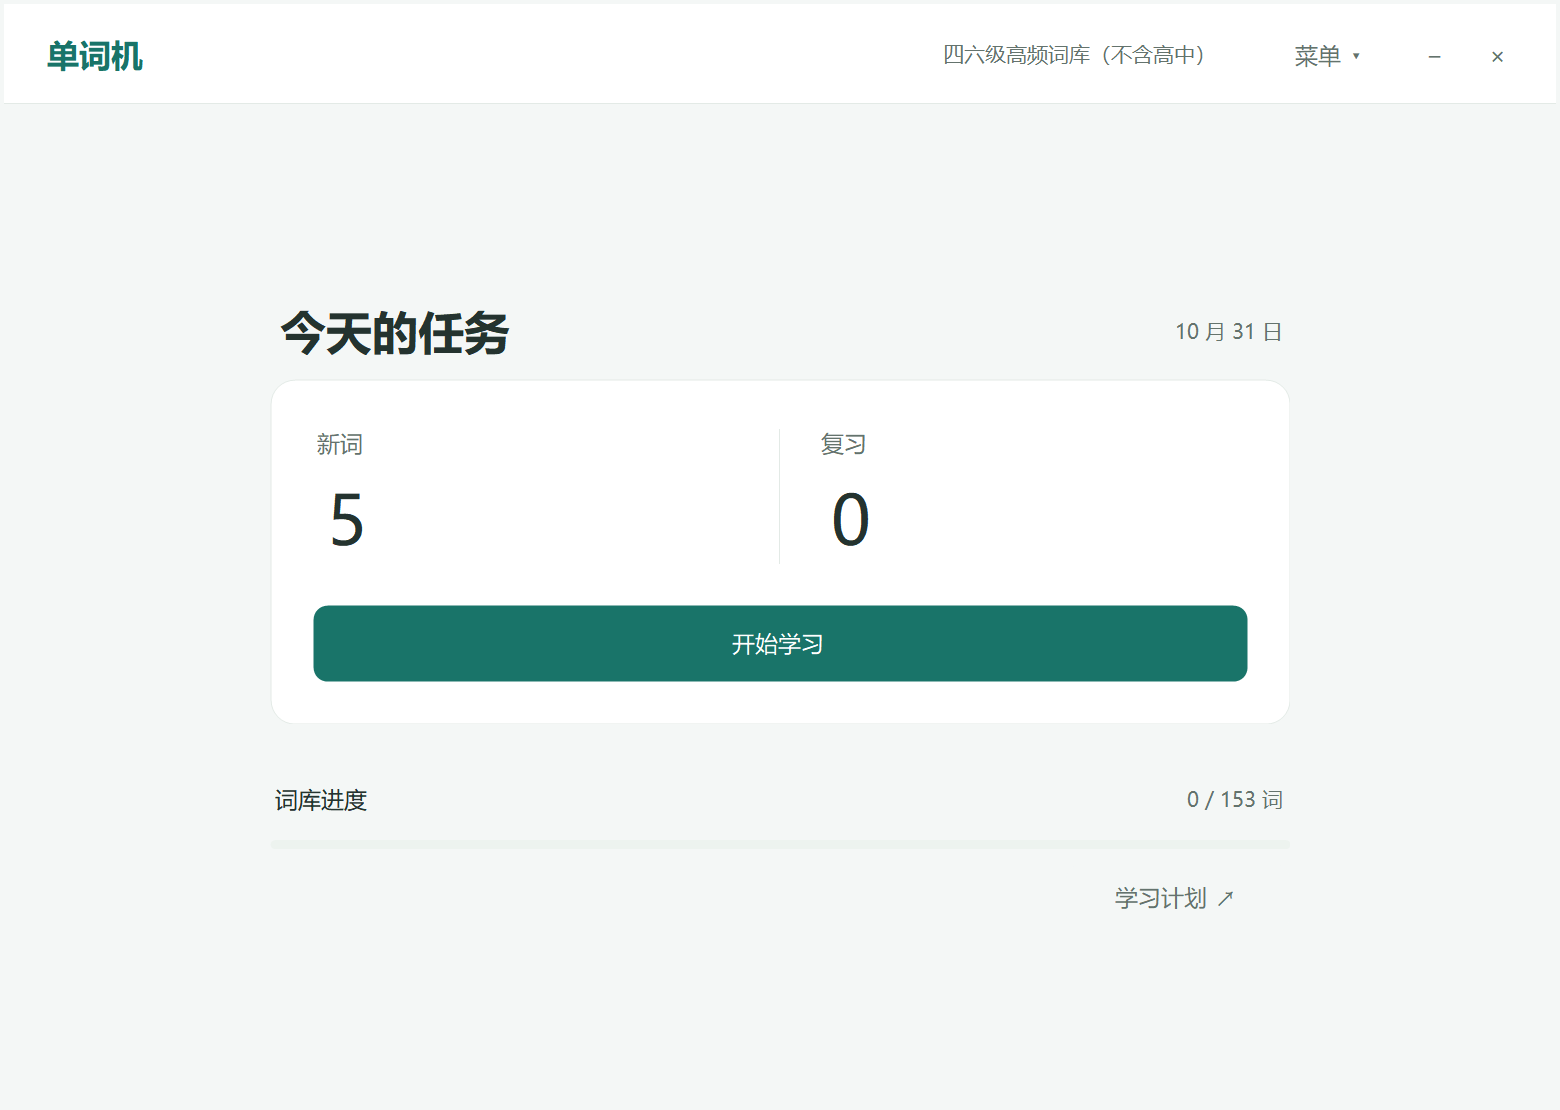
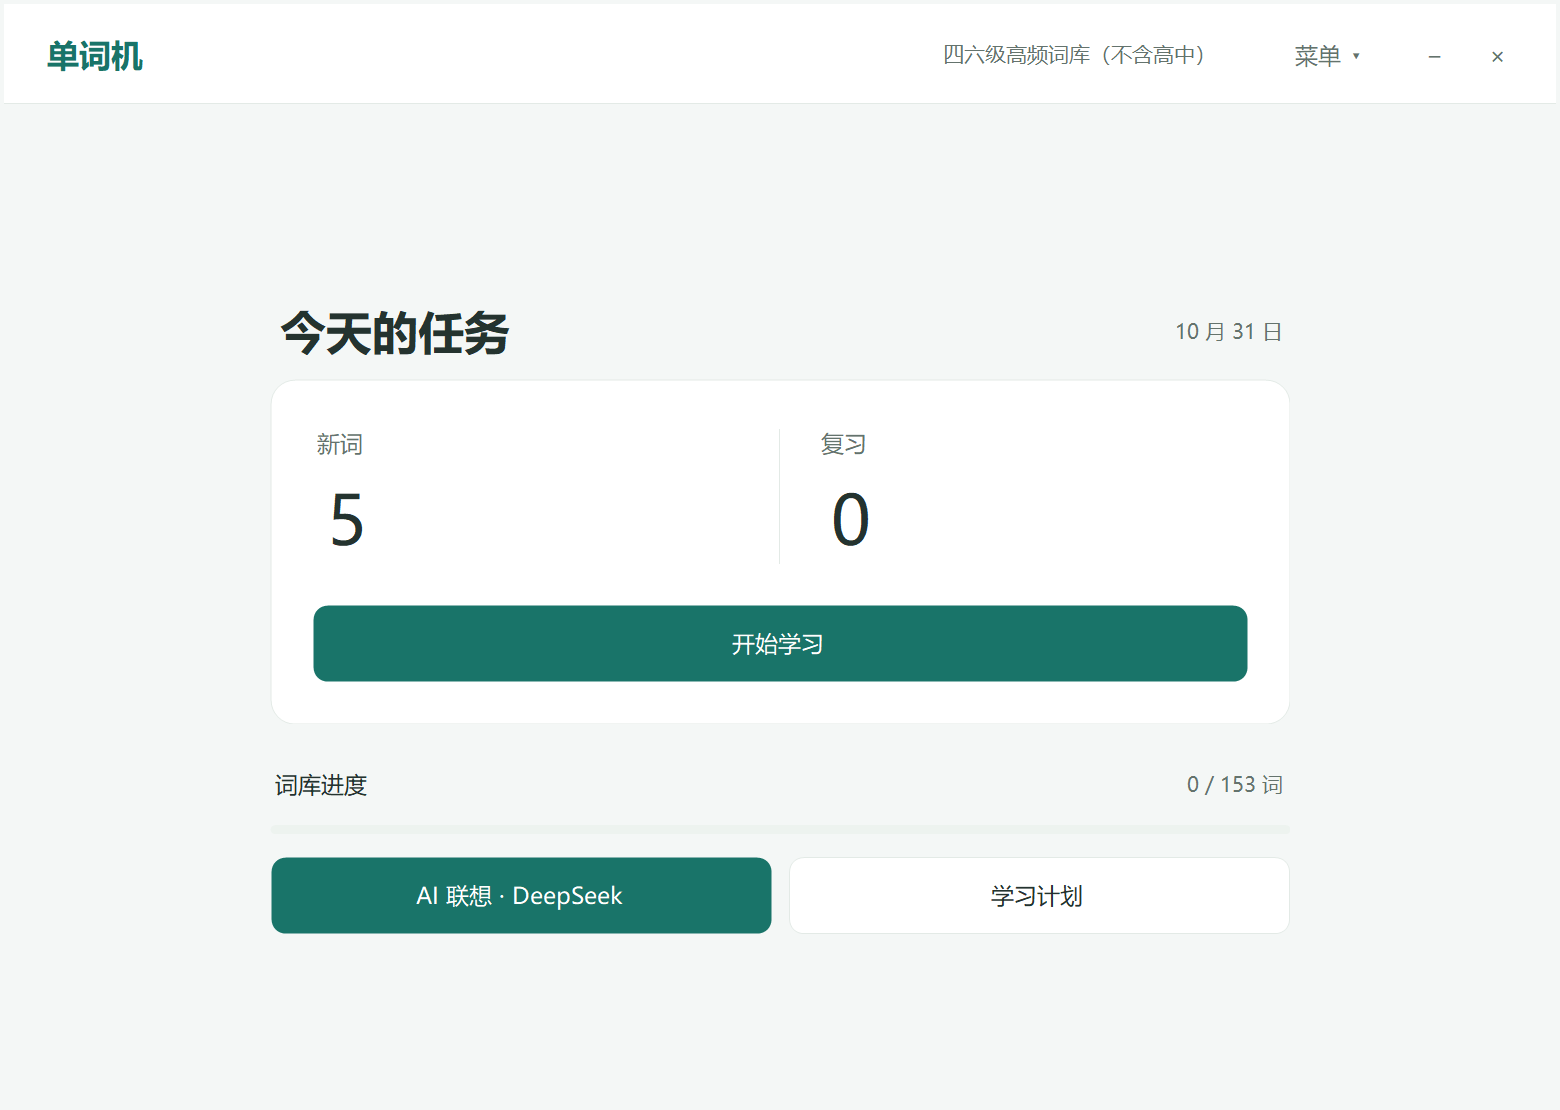
docs: prepare v0.1.1 release and update AI review guidance

diff --git a/docs/VERIFICATION.md b/docs/VERIFICATION.md
@@ -3,7 +3,7 @@
 日期：2026-10-31。
 
 - 正式版、测试版及两个测试项目组成的解决方案成功构建：0 警告、0 错误。
-- 社区版专项：正式模式和 TESTMODE 各通过 **446 项检查**；正式模式另在 96 DPI 下完整通过同样 446 项检查，常规运行在 144 DPI。
+- v0.1.1 社区版专项：正式模式和 TESTMODE 各通过 **489 项检查**；正式模式另在 96 DPI 下完整通过同样 489 项检查，常规运行在 144 DPI。
 - 导入覆盖：CSV/TSV、中文/英文表头、无表头、BOM、GB18030、UTF-16、多行引号、重复词冲突、JSON、XLSX、公式拒绝、空文件、50,000 词上限、导出往返及 CSV 公式文本保护。
 - 切换覆盖：按库保存任务、部分已答题任务恢复、同词同义进度复制、关闭复制、已用词库词条快照保留、切换失败不覆盖原状态、重启后恢复。
 - 可靠性覆盖：保存失败回滚、解除占用后重试、损坏存档不重置、存在备份时主文件缺失不创建空账号、损坏导入词库提示但不删除。
@@ -15,6 +15,9 @@
 - AI 联想覆盖：用户主动请求、只发送当前词/音标/释义、内置创意提示词、无最低字数、80 字 Unicode 边界、异常/超长/空结果拒绝、无自动重试、网络超时与取消、错误正文不泄漏凭据、模型列表连接测试。
 - AI 设置覆盖：假 Key 的真实 DPAPI 加密往返、无明文落盘、原子替换、文件占用保留旧配置、损坏配置不自动清除、手动移除、密码遮罩、取消不保存、失败可重试。未配置时仍可手写联想。
 - AI 界面覆盖：生成草稿不自动落盘、允许编辑与撤回、保存沿用原事务逻辑、关闭/取消后丢弃迟到响应、重复点击取消而不并发发送、已保存联想离线可读。100% / 150% 及最小窗口按钮尺寸、可达性和截图已核对。异步 UI 用真实 Windows 消息循环测试。
+- v0.1.1 首页入口：AI 联想按钮在常规及窄窗口可见，文字完整；打开、取消和保存设置不会修改学习进度，也不会自动调用 API；对话框结束后恢复跨日计时器。
+- v0.1.1 逐词复习：学习联想展示、手动修改、AI 生成与撤回、取消不保存、长联想滚动、最小窗口五个按钮可达且文字完整、空联想新增与清空、恢复词库原联想、文件占用失败保留旧状态及解除占用后重试、翻页与返回、重启离线读取、词库隔离、跨日拒绝旧编辑均通过。对比除个人联想外的完整存档，正式成绩、答案、复习日程和词库内容保持不变。
+- 复习编辑器额外验证真实 Windows 消息循环中的中文 `WM_CHAR` 连续输入：错题卡可见且至少刷新两次，未发生焦点丢失。本机 96 DPI 全量补测曾在既有冷却倒计时场景记录一次焦点中断；重新执行完整测试后 489 项全部通过，未稳定复现，也未放宽原检查。该测试不覆盖真实拼音输入法的候选词组合。
 - API 请求使用注入的模拟 HTTP 响应，不读取真实 Key、不产生真实模型调用；官方接口参数已核对。首次真实认证及生成需用户配置自己的 Key。
 - 错题卡边界覆盖：四边限制、负坐标与上下排列的多屏模拟、带任务栏偏移的工作区、窗口大于工作区时缩小；真实窗口的程序定位、原生 SetWindowPos 和 WM_MOVING 消息均保持完整可见。普通关闭及最小化命令不能绕过卡片；长错题列表内部滚动，底部按钮保持可达。
 - 隐藏抽查覆盖：从当前错词集合抽取、输入前不展示参考释义、空答不能通过、对照原答案自评、只有“基本说对”通过、其余自评/想不起来/取消均冷却；抽查时遮住原卡片释义，不收起卡片。阻止重复开题；换库、跨日或移除抽中词会作废旧题，正常退出可关闭进行中的题目和计时器。

diff --git a/README.md b/README.md
@@ -57,7 +57,7 @@ dotnet run --project src/Cet6WordMachine/Cet6WordMachine.csproj
 powershell -ExecutionPolicy Bypass -File scripts/build.ps1
 
 # 从当前 Git 提交打包版本化运行包和 SHA256 校验文件（需要 PowerShell 7）
-pwsh -File scripts/package-release.ps1 -Version 0.1.0
+pwsh -File scripts/package-release.ps1 -Version 0.1.1
 
 # 运行调度回归和词库专项测试（使用独立临时账号）
 powershell -ExecutionPolicy Bypass -File scripts/test.ps1
@@ -83,9 +83,11 @@ python scripts/verify_wordbanks.py
 
 ## AI 联想（可选）
 
-1. 打开 **菜单 → AI 设置**，填写自己的 DeepSeek API Key，选择模型。可先点“测试连接”，再保存。
-2. 在词卡的 **我的联想** 中点击 **AI 生成**。没有 Key 时会先打开设置；设置后需再次明确点击生成。
+1. 点击首页的 **AI 联想 · DeepSeek**，填写自己的 DeepSeek API Key，选择模型；也可从 **菜单 → AI 联想设置** 进入。可先点“测试连接”，再保存。
+2. 学习词卡和完成页的 **逐词复习** 都可以打开 **我的联想**，手动编辑或点击 **AI 生成**。没有 Key 时会先打开设置；设置后需再次明确点击生成。
 3. 可以手动修改、点击“换一种”重新生成，或“撤回生成”恢复上一次生成前的内容。只有点击 **保存** 才写入当前词库的个人联想。
+
+逐词复习直接展示已保存的联想，修改后立即更新；清空并保存会恢复词库自带的联想。修改联想不会改变检测成绩、历史答案或复习安排。
 
 内置提示词鼓励天马行空、幽默、荒诞但有内在逻辑的画面，连接单词与词义，突出一个记忆点；**80 字以内，不设最低字数**。虚构拆词只能作为记忆技巧，不能冒充真实词源。
 

diff --git a/docs/releases/v0.1.1.md b/docs/releases/v0.1.1.md
@@ -1,0 +1,19 @@
+本次更新让 AI 联想更容易找到，并补全逐词复习的联想编辑功能。
+
+## 更新内容
+
+- 首页新增醒目的 **AI 联想 · DeepSeek** 按钮，一键打开 API 设置；菜单中的入口改名为“AI 联想设置”。
+- **逐词复习**直接展示已保存的联想，新增“我的联想”按钮，与学习时使用同一个编辑窗口。
+- 支持手动改写、AI 生成、换一种和撤回生成；点击保存后立即更新。清空并保存会恢复词库自带联想。
+- 联想按词库保存，翻页、返回和重启后仍保留；修改不会影响检测成绩、历史答案或复习安排。
+- 增加首页入口、复习编辑、保存失败重试、跨日保护、长文本布局和输入焦点的回归检查。
+
+## 下载与更新
+
+下载 **WordMachineCommunity-win-x64.zip**，完整解压后打开 `WordMachineCommunity.exe`。这是 Windows x64 自包含运行包，无需另行安装 .NET。GitHub 自动生成的 Source code 是源码包。
+
+更新前退出旧程序并备份学习数据。默认数据目录为 `%LOCALAPPDATA%\WordMachineCommunity\`，可继续使用原有记录；便携模式请保留自己的 `data/` 和 `portable.marker`。如果移动了程序位置，请在菜单中更新开机自启动路径。
+
+AI 功能需要使用者自己的 DeepSeek API Key；只有主动生成时才请求联想接口。此版本通过模拟 API 和隔离账号测试，不包含共享 Key、个人学习记录或测试账号。
+
+运行包附带“用前读我.txt”、版本信息和“撤销开机自启动.cmd”，同时提供 `SHA256SUMS.txt` 校验文件。
